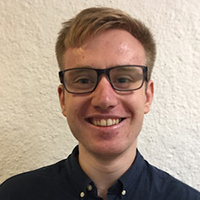
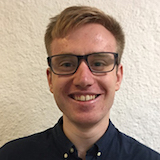
Mentors page tweaks & my bio

diff --git a/assets/scss/mentors_page.scss b/assets/scss/mentors_page.scss
@@ -1,0 +1,12 @@
+#mentors_page {
+  img {
+    float: right;
+    border-radius: 100px;
+    margin-top: 50px;
+  }
+  .mentor {
+    float: left;
+    width: 500px;
+    margin-bottom: 50px;
+  }
+}

diff --git a/assets/scss/main.scss b/assets/scss/main.scss
@@ -6,3 +6,5 @@
 
 @import "layout";
 @import "syntax-highlighting";
+
+@import "mentors_page";

diff --git a/mentors.md b/mentors.md
@@ -4,16 +4,43 @@ title: Mentors
 permalink: /mentors/
 ---
 
-<h3>Andy Callaghan</h3>
+<div id="mentors_page" markdown='1'>
 
-<div class="pull-right" markdown="1">
-![Daniel's Bio Pic](/assets/images/dan-bio-pic.jpg)
+<div class="mentor" markdown='1'>
+
+### Andy Callaghan
+
+<div class="links" markdown='1'>
+[Github](https://github.com/acallaghan)
+|
+[Website](http://www.andycallaghan.com/)
 </div>
 
-<h3>Daniel Alderman</h3>
+Andy is a Ruby developer at Pixfizz, writing software that makes print books and calendars.
+He started taking computers apart at aged 7 and hasn't really stopped since!
+In his spare time, he plays the drums in a band and is often seen about with his dog Freddy!
+
+</div>
+![Daniel's Bio Pic](/assets/images/andy-bio-pic.jpg)
+
+<div class="mentor" markdown='1'>
+
+### Daniel Alderman
+
+<div class="links" markdown='1'>
+[Github](https://github.com/Daniel-Alderman77)
+|
+[Website](http://www.daniel-alderman.com/)
+</div>
+
 Daniel is a .Net developer for StarCompliance. As a self-confessed Pythonista, he
 has a passion for all things. He is also particularly fond of cloud technologies
 and web application development. Daniel is currently learning Go and Kubernetes.
 
-<li><a class="fa fa-github fa-2x" href="https://github.com/Daniel-Alderman77">Github</a></li>
-<li><a class="fa fa-external-link fa-2x" href="http://www.daniel-alderman.com/">Website</a></li>
+</div>
+![Daniel's Bio Pic](/assets/images/dan-bio-pic.jpg)
+
+
+</div>
+
+<div class="clearfix"></div>
